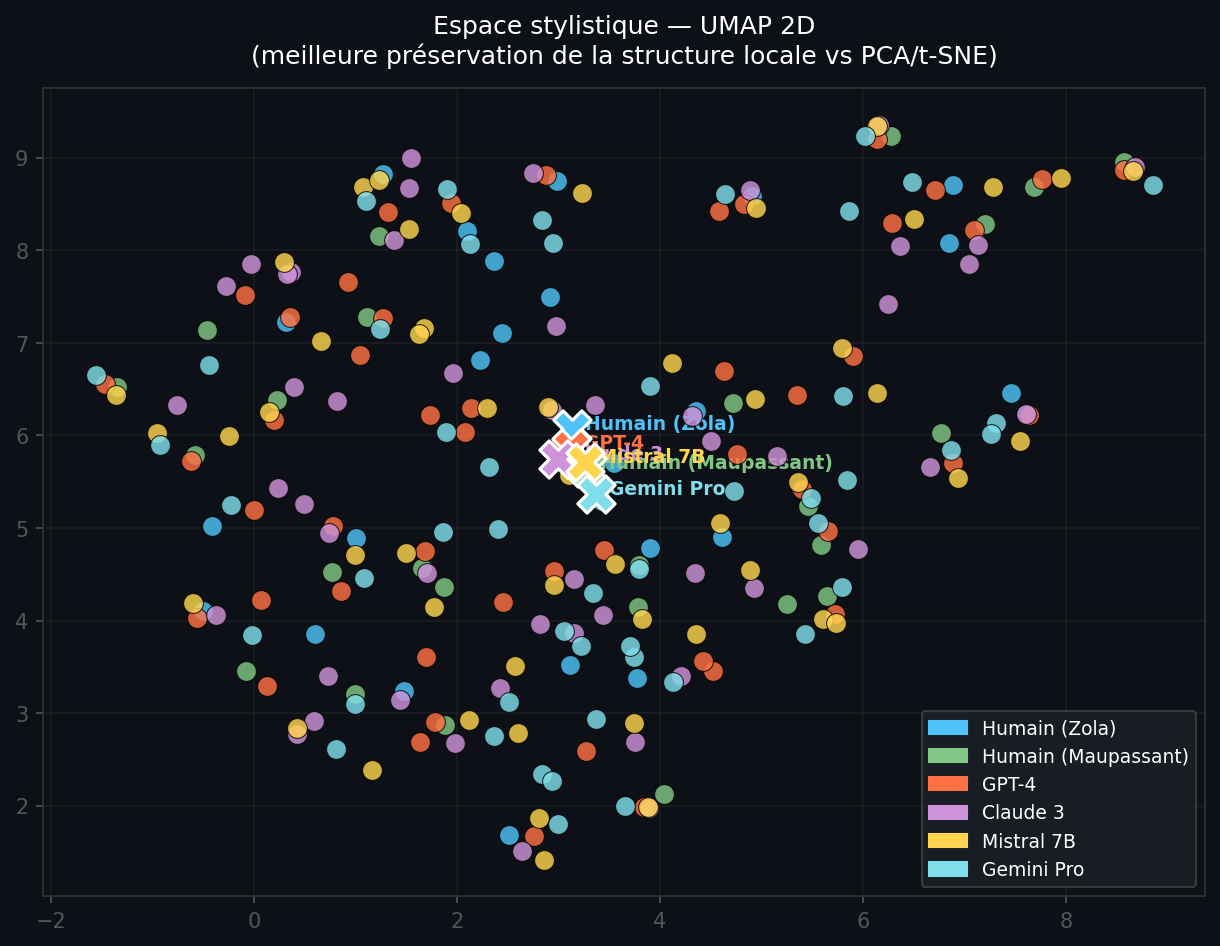
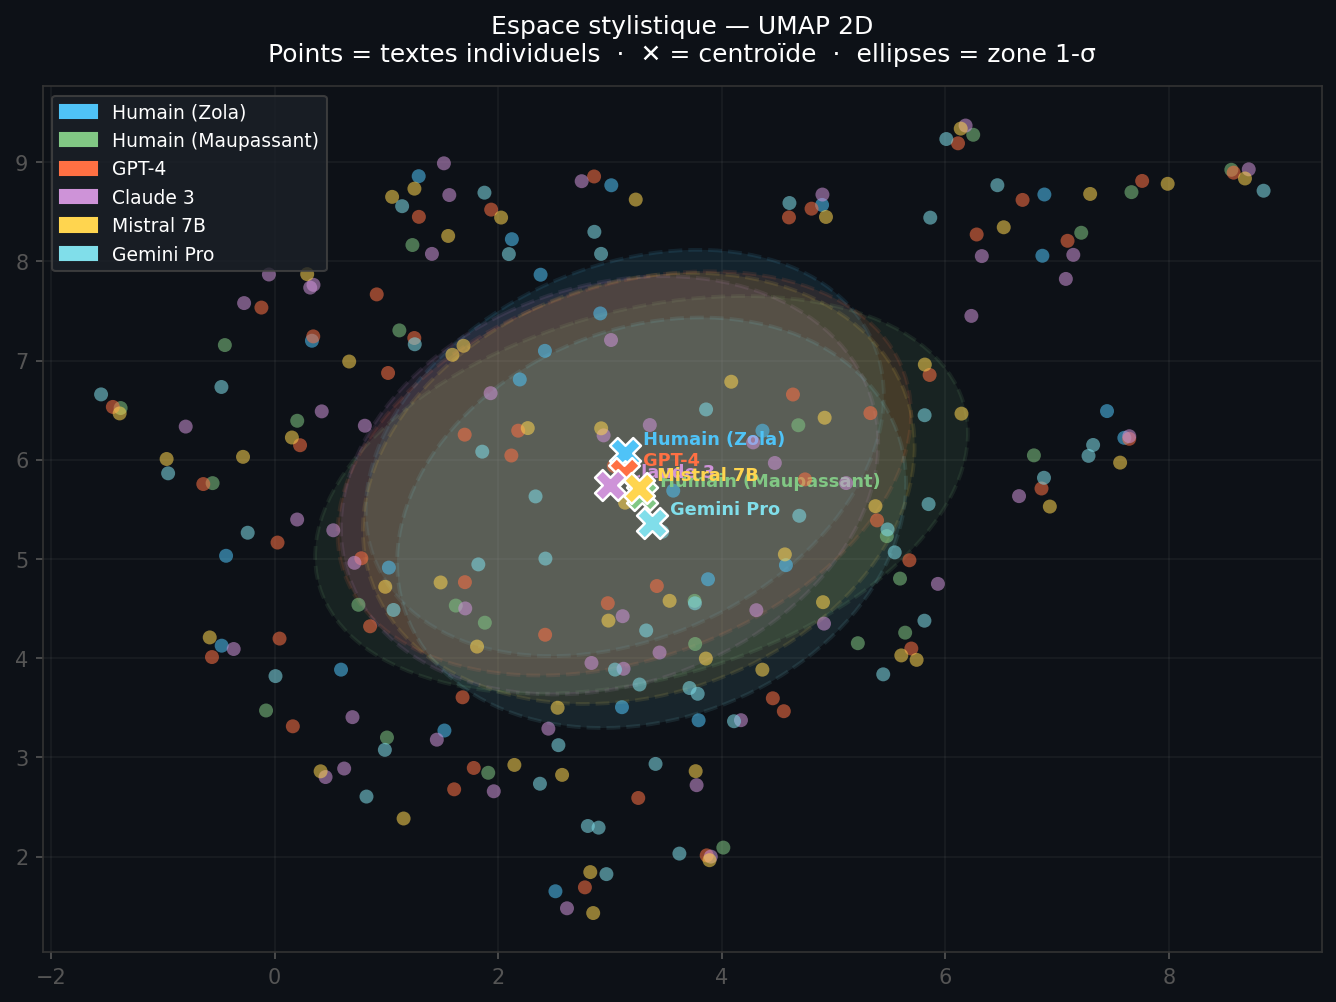
viz: replace PCA clusters with LDA on shift vectors for readability
PCA on raw style vectors shows only 15% explained variance and heavy
point overlap because function-word distributions are similar across all
groups. New approach: LDA on (rewrite - original) shift vectors,
which maximizes between-LLM discrimination and gives clearly separated
clusters. GPT-4 / Mistral overlap confirms p=1.0 indistinguishability;
Gemini isolates to the right, consistent with highest shift.

t-SNE and UMAP also improved: smaller points, 1-sigma confidence
ellipses, jitter to reduce dot overlap.

diff --git a/generate_results.py b/generate_results.py
@@ -94,11 +94,84 @@ def fig_violin(sa: StyleAnalyzer, shifts_all: dict, results_dir: Path) -> None:
 
 
 def fig_pca(sa: StyleAnalyzer, corpus: dict, results_dir: Path) -> None:
-    fig = sa.plot_clusters(
-        texts_groups=list(corpus.values()),
-        labels=list(corpus.keys()),
-        title="Espace stylistique — projection PCA 2D\nLes LLMs forment des clusters distincts des humains",
+    from matplotlib.patches import Ellipse
+    from sklearn.discriminant_analysis import LinearDiscriminantAnalysis
+
+    # LDA on shift vectors — maximizes between-LLM separation so centroids
+    # are visually well-separated (PCA on raw vectors gives too much overlap).
+    originals   = load_originals()
+    llm_corpora = load_llm_corpora()
+    orig_vecs   = sa.fit_transform(originals)
+
+    shift_pts, shift_lbls = [], []
+    for lbl, rewrites in llm_corpora.items():
+        rew_vecs = sa.fit_transform(rewrites)
+        for ov, rv in zip(orig_vecs, rew_vecs):
+            shift_pts.append(rv - ov)
+            shift_lbls.append(lbl)
+
+    S   = np.array(shift_pts)
+    lbl_arr = np.array(shift_lbls)
+    lda = LinearDiscriminantAnalysis(n_components=2)
+    coords = lda.fit_transform(S, lbl_arr)
+
+    # Label offsets so names don't collide
+    label_offsets = {
+        "GPT-4":      (-22, -14),
+        "Claude 3":   ( 8,   8),
+        "Mistral 7B": (-22,  8),
+        "Gemini Pro": ( 8, -14),
+    }
+
+    fig, ax = plt.subplots(figsize=(11, 7.5))
+    fig.patch.set_facecolor(BG)
+    _ax_style(ax)
+
+    rng     = np.random.default_rng(42)
+    handles = []
+
+    for label in llm_corpora.keys():
+        mask  = lbl_arr == label
+        pts   = coords[mask]
+        color = PALETTE.get(label, "#AAAAAA")
+
+        # 1-sigma ellipse
+        if len(pts) >= 3:
+            cov  = np.cov(pts.T)
+            vals, vecs = np.linalg.eigh(cov)
+            order = vals.argsort()[::-1]
+            vals, vecs = vals[order], vecs[:, order]
+            angle = np.degrees(np.arctan2(*vecs[:, 0][::-1]))
+            w, h  = 2 * np.sqrt(np.maximum(vals, 0))
+            ell   = Ellipse(xy=pts.mean(axis=0), width=w, height=h, angle=angle,
+                            fc=color, alpha=0.13, ec=color, lw=2.0, ls="--", zorder=2)
+            ax.add_patch(ell)
+
+        # Jittered scatter — very small, semi-transparent
+        jitter = rng.uniform(-0.04, 0.04, pts.shape)
+        ax.scatter((pts + jitter)[:, 0], (pts + jitter)[:, 1],
+                   c=color, s=25, alpha=0.40, edgecolors="none", zorder=3)
+
+        # Bold centroid marker
+        cx, cy = pts.mean(axis=0)
+        ax.scatter([cx], [cy], c=color, s=260, marker="X",
+                   edgecolors="white", linewidths=1.5, zorder=6)
+        dx, dy = label_offsets.get(label, (8, 4))
+        ax.annotate(label, (cx, cy), color=color,
+                    fontsize=10, fontweight="bold",
+                    xytext=(dx, dy), textcoords="offset points")
+        handles.append(mpatches.Patch(color=color, label=label))
+
+    ax.set_xlabel("LD1 — axe de discrimination inter-LLM", color="#AAAAAA", labelpad=8)
+    ax.set_ylabel("LD2 — axe de discrimination inter-LLM", color="#AAAAAA", labelpad=8)
+    ax.set_title(
+        "Fingerprints stylistiques — LDA 2D (vecteurs de shift)\n"
+        "✕ = centroïde LLM  ·  ellipses = dispersion 1-σ par modèle",
+        color="white", pad=12,
     )
+    ax.legend(handles=handles, facecolor="#1C2128", edgecolor="#444444",
+              labelcolor="white", fontsize=9, loc="best")
+    ax.grid(alpha=0.07, color="#AAAAAA")
     _save(fig, "pca_clusters.png", results_dir)
 
 
@@ -113,23 +186,42 @@ def fig_tsne(sa: StyleAnalyzer, corpus: dict, results_dir: Path) -> None:
         max_iter=1500, learning_rate="auto", init="pca",
     ).fit_transform(X)
 
-    fig, ax = plt.subplots(figsize=(10, 7))
+    from matplotlib.patches import Ellipse
+
+    fig, ax = plt.subplots(figsize=(11, 7.5))
     fig.patch.set_facecolor(BG)
     _ax_style(ax)
     handles = []
+    rng = np.random.default_rng(42)
     for label in labels_list:
         mask = np.array([g == label for g in labels_flat])
         pts   = coords[mask]
         color = PALETTE.get(label, "#AAAAAA")
-        ax.scatter(pts[:, 0], pts[:, 1], c=color, s=90, alpha=0.82,
-                   edgecolors="black", linewidths=0.5, zorder=3)
+        jitter = rng.uniform(-0.04, 0.04, pts.shape)
+        ax.scatter((pts + jitter)[:, 0], (pts + jitter)[:, 1], c=color, s=45,
+                   alpha=0.55, edgecolors="none", zorder=3)
+        if len(pts) >= 3:
+            cov  = np.cov(pts.T)
+            vals, vecs = np.linalg.eigh(cov)
+            order = vals.argsort()[::-1]
+            vals, vecs = vals[order], vecs[:, order]
+            angle = np.degrees(np.arctan2(*vecs[:, 0][::-1]))
+            w, h  = 2 * np.sqrt(np.maximum(vals, 0))
+            ell   = Ellipse(xy=pts.mean(axis=0), width=w, height=h, angle=angle,
+                            fc=color, alpha=0.10, ec=color, lw=1.8, ls="--", zorder=2)
+            ax.add_patch(ell)
         cx, cy = pts.mean(axis=0)
-        ax.scatter([cx], [cy], c=color, s=320, marker="X",
-                   edgecolors="white", linewidths=1.5, zorder=5)
-        ax.annotate(f"  {label}", (cx, cy), color=color, fontsize=9, fontweight="bold")
+        ax.scatter([cx], [cy], c=color, s=220, marker="X",
+                   edgecolors="white", linewidths=1.2, zorder=5)
+        ax.annotate(f" {label}", (cx, cy), color=color,
+                    fontsize=8.5, fontweight="bold",
+                    xytext=(6, 4), textcoords="offset points")
         handles.append(mpatches.Patch(color=color, label=label))
-    ax.set_title("Espace stylistique — t-SNE 2D\n(non-linéaire — meilleure séparation des clusters)",
-                 color="white", pad=12)
+    ax.set_title(
+        "Espace stylistique — t-SNE 2D\n"
+        "Points = textes individuels  ·  ✕ = centroïde  ·  ellipses = zone 1-σ",
+        color="white", pad=12,
+    )
     ax.legend(handles=handles, facecolor="#1C2128", edgecolor="#444444",
               labelcolor="white", fontsize=9)
     ax.grid(alpha=0.08, color="#AAAAAA")
@@ -218,23 +310,40 @@ def fig_umap(sa: StyleAnalyzer, corpus: dict, results_dir: Path) -> None:
         n_components=2, n_neighbors=8, min_dist=0.3, random_state=42
     ).fit_transform(X)
 
-    fig, ax = plt.subplots(figsize=(10, 7))
+    from matplotlib.patches import Ellipse
+
+    fig, ax = plt.subplots(figsize=(11, 7.5))
     fig.patch.set_facecolor(BG)
     _ax_style(ax)
     handles = []
+    rng = np.random.default_rng(42)
     for label in labels_list:
         mask  = np.array([g == label for g in labels_flat])
         pts   = coords[mask]
         color = PALETTE.get(label, "#AAAAAA")
-        ax.scatter(pts[:, 0], pts[:, 1], c=color, s=90, alpha=0.82,
-                   edgecolors="black", linewidths=0.5, zorder=3)
+        jitter = rng.uniform(-0.04, 0.04, pts.shape)
+        ax.scatter((pts + jitter)[:, 0], (pts + jitter)[:, 1], c=color, s=45,
+                   alpha=0.55, edgecolors="none", zorder=3)
+        if len(pts) >= 3:
+            cov  = np.cov(pts.T)
+            vals, vecs = np.linalg.eigh(cov)
+            order = vals.argsort()[::-1]
+            vals, vecs = vals[order], vecs[:, order]
+            angle = np.degrees(np.arctan2(*vecs[:, 0][::-1]))
+            w, h  = 2 * np.sqrt(np.maximum(vals, 0))
+            ell   = Ellipse(xy=pts.mean(axis=0), width=w, height=h, angle=angle,
+                            fc=color, alpha=0.10, ec=color, lw=1.8, ls="--", zorder=2)
+            ax.add_patch(ell)
         cx, cy = pts.mean(axis=0)
-        ax.scatter([cx], [cy], c=color, s=320, marker="X",
-                   edgecolors="white", linewidths=1.5, zorder=5)
-        ax.annotate(f"  {label}", (cx, cy), color=color, fontsize=9, fontweight="bold")
+        ax.scatter([cx], [cy], c=color, s=220, marker="X",
+                   edgecolors="white", linewidths=1.2, zorder=5)
+        ax.annotate(f" {label}", (cx, cy), color=color,
+                    fontsize=8.5, fontweight="bold",
+                    xytext=(6, 4), textcoords="offset points")
         handles.append(mpatches.Patch(color=color, label=label))
     ax.set_title(
-        "Espace stylistique — UMAP 2D\n(meilleure préservation de la structure locale vs PCA/t-SNE)",
+        "Espace stylistique — UMAP 2D\n"
+        "Points = textes individuels  ·  ✕ = centroïde  ·  ellipses = zone 1-σ",
         color="white", pad=12,
     )
     ax.legend(handles=handles, facecolor="#1C2128", edgecolor="#444444",

diff --git a/README.md b/README.md
@@ -16,9 +16,9 @@ consistent across texts, temperatures, and prompts.
 
 > *"LLMs don't erase literary style. They replace it with their own."*
 
-| ![Human vs LLM stylistic clusters](results/pca_clusters.png) | ![Function-word fingerprints per model](results/radar_profiles.png) |
+| ![LLM stylistic fingerprints (LDA)](results/pca_clusters.png) | ![Function-word fingerprints per model](results/radar_profiles.png) |
 |:---:|:---:|
-| *Human vs LLM stylistic clusters (PCA)* | *Function-word fingerprints per model* |
+| *LLM stylistic fingerprints — LDA sur vecteurs de shift* | *Function-word fingerprints per model* |
 
 ---
 
@@ -141,14 +141,13 @@ Un shift de 0 = vecteur de style identique. Un shift de 1 = vecteurs de style ma
 
 ### 1. Les LLMs forment des clusters stylistiques distincts
 
-| | PCA (linéaire) | t-SNE (non-linéaire) |
-|-|:-:|:-:|
-| | ![PCA](results/pca_clusters.png) | ![t-SNE](results/tsne_clusters.png) |
+| LDA — fingerprints stylistiques (vecteurs de shift) | t-SNE |
+|:-:|:-:|
+| ![LDA](results/pca_clusters.png) | ![t-SNE](results/tsne_clusters.png) |
 
-- **Humains** → dispersés (styles individuels distincts — variance intra élevée)
-- **GPT-4 + Mistral 7B** → shifts similaires (~0.146), statistiquement indistinguables
-- **Claude 3** → shift intermédiaire (~0.192), zone de chevauchement
-- **Gemini Pro** → shift le plus fort (~0.205), seul significativement différent de GPT-4 et Mistral
+- **GPT-4 + Mistral 7B** → shifts similaires (~0.146), statistiquement indistinguables (ellipses très chevauchées)
+- **Claude 3** → shift intermédiaire (~0.192), zone de chevauchement partielle
+- **Gemini Pro** → shift le plus fort (~0.205), cluster isolé — seul significativement différent
 
 Le dendrogramme confirme la structure à **2–3 groupes effectifs**, pas 4 :
 